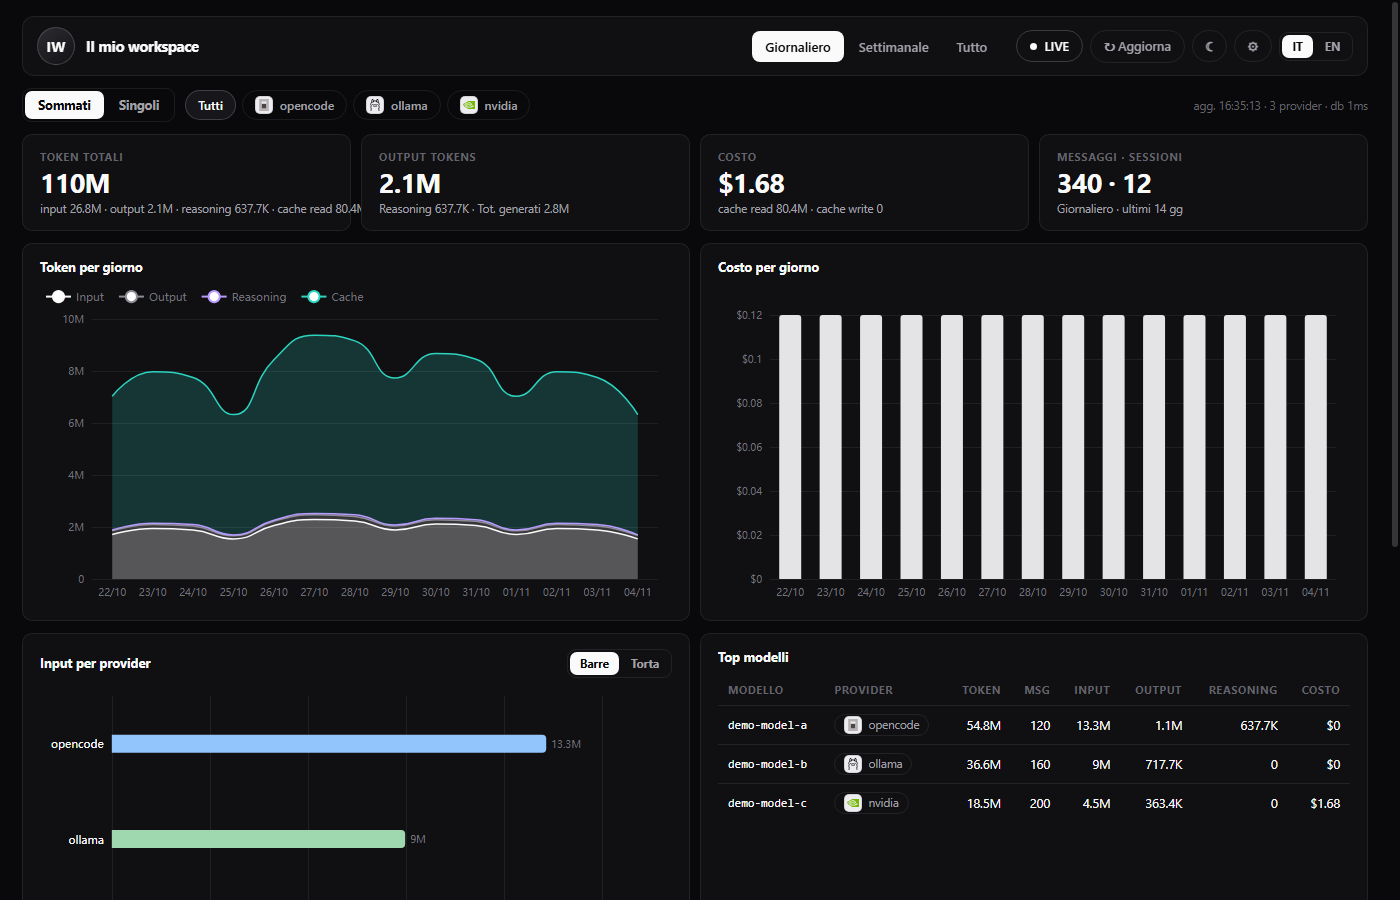
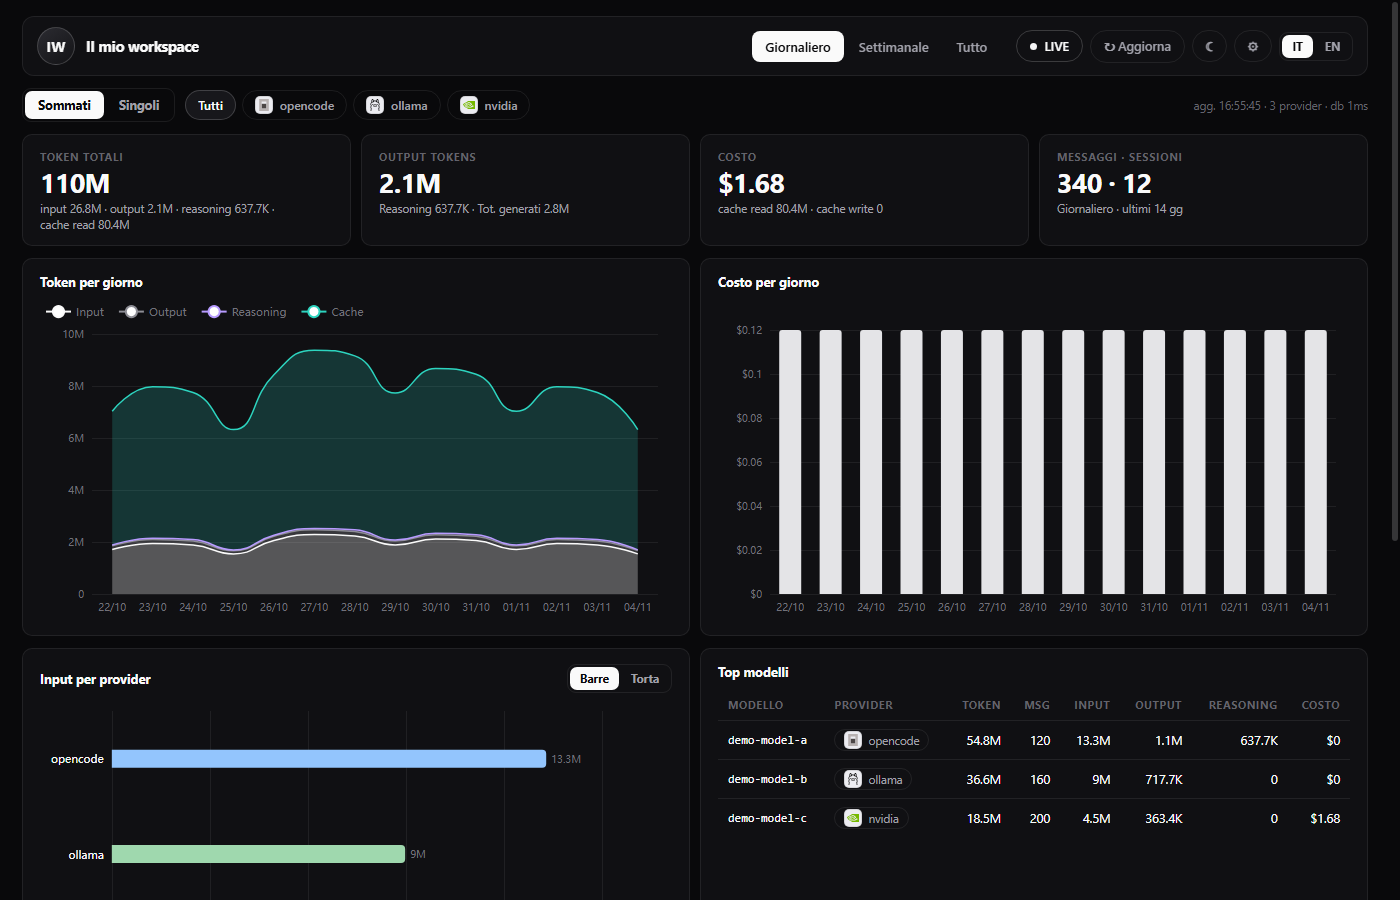
fix: keep the KPI breakdown readable at the default window width

diff --git a/src/App.tsx b/src/App.tsx
@@ -1371,9 +1371,9 @@ export default function App() {
           <span className="kpi-sub kpi-sub-wrap">
             {totals ? (
               <>
-                <span className="kpi-part">{S["kpi.inputShort"]} {fmtCompact(totals.input)}</span>
-                <span className="kpi-part">{S["kpi.outputShort"]} {fmtCompact(totals.output)}</span>
-                <span className="kpi-part">{S["kpi.reasoningShort"]} {fmtCompact(totals.reasoning)}</span>
+                <span className="kpi-part">{S["kpi.inputShort"]} {fmtCompact(totals.input)}</span>{" · "}
+                <span className="kpi-part">{S["kpi.outputShort"]} {fmtCompact(totals.output)}</span>{" · "}
+                <span className="kpi-part">{S["kpi.reasoningShort"]} {fmtCompact(totals.reasoning)}</span>{" · "}
                 <span className="kpi-part">{S["kpi.cacheRead"]} {fmtCompact(totals.cacheRead)}</span>
               </>
             ) : ""}

diff --git a/src/App.css b/src/App.css
@@ -863,10 +863,6 @@ input:focus-visible {
   white-space: nowrap;
 }
 
-.kpi-part + .kpi-part::before {
-  content: " · ";
-}
-
 /* ——— Boot loader ——— */
 .boot {
   min-height: 100vh;
